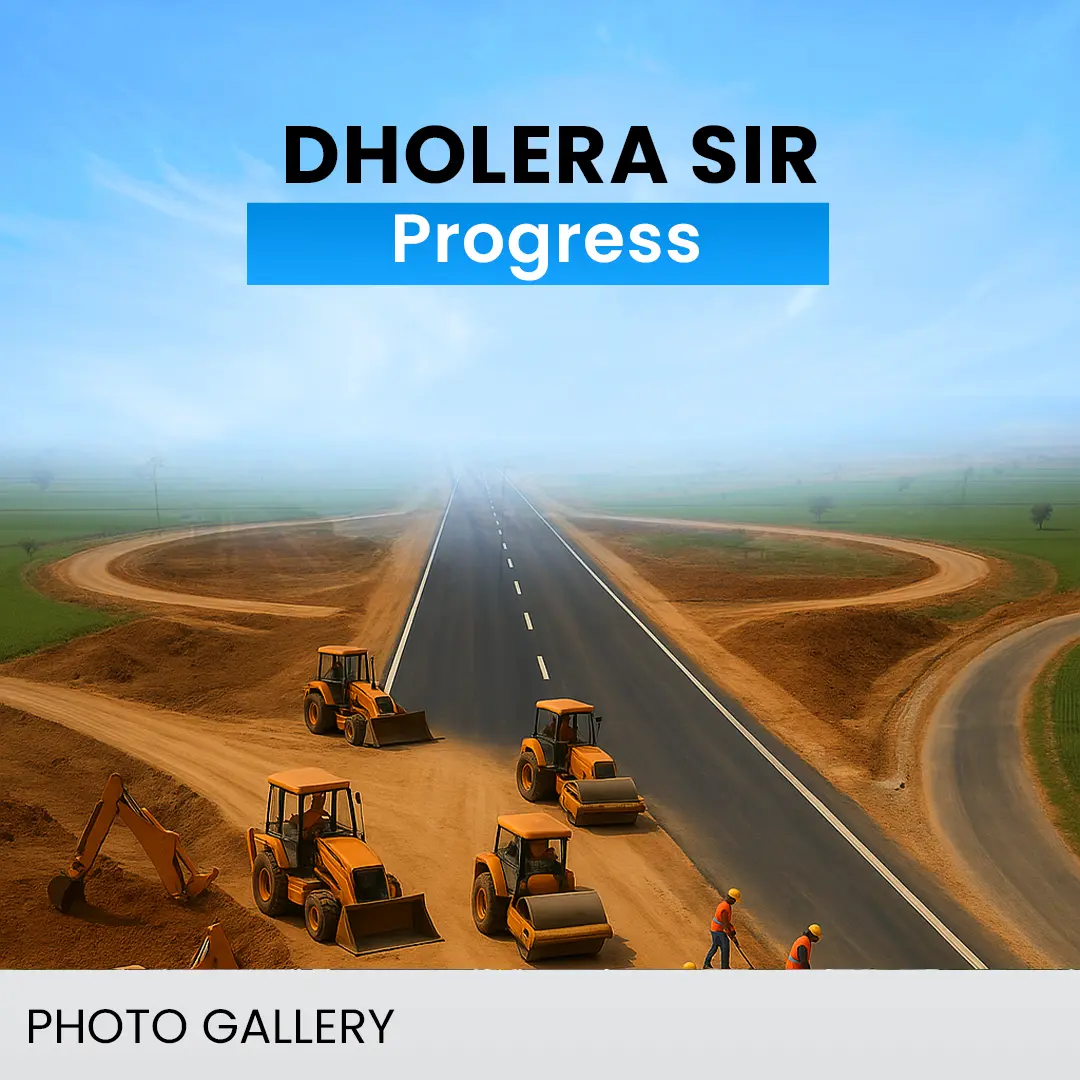
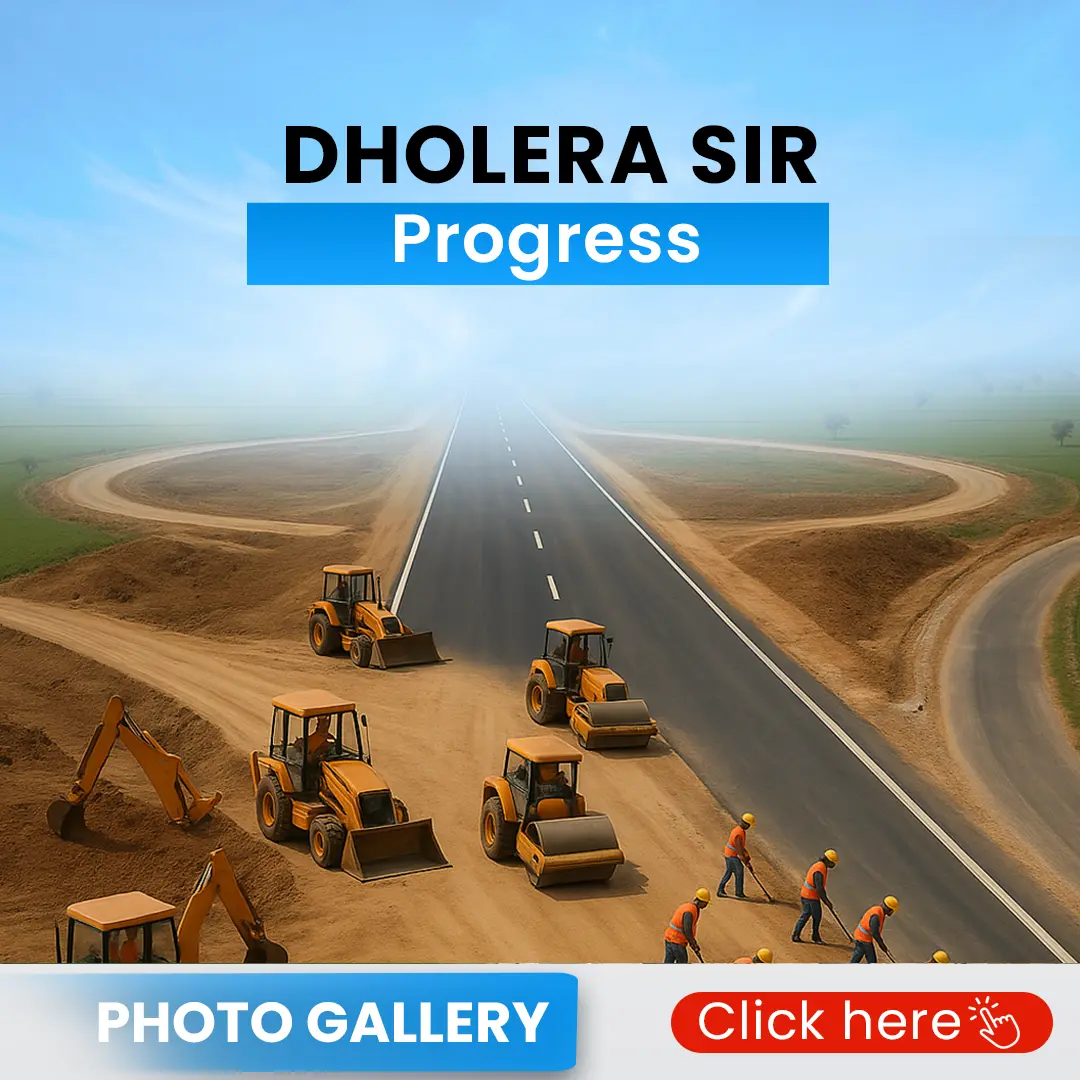
infopack

diff --git a/src/app/(main)/infopack/new.jsx b/src/app/(main)/infopack/new.jsx
@@ -1,74 +1,184 @@
 "use client";
 import Image from "next/image";
 import Link from "next/link";
-import React, { useState, useEffect } from "react";
+import React from "react";
+import { FaDownload } from "react-icons/fa";
+import LatestUpdates from "../components/Latest-updates";
+
+// Import images
 import maps from "@/assets/locations.webp";
 import videos from "@/assets/videos.webp";
 import inventory from "@/assets/plot.webp";
 import bg from "@/assets/bg-image.webp";
-import { FaDownload } from "react-icons/fa";
+import dholeraSIRprogress from "@/assets/dholeraSIRprogress.webp";
+import dholeraSite from "@/assets/dholeraSite.webp";
+
+// Feature card component for better reusability
+const FeatureCard = ({ href, image, alt, title }) => (
+  <Link
+    href={href}
+    className="space-y-4 block group"
+    aria-label={`View ${title}`}
+  >
+    <div className="overflow-hidden rounded-lg shadow-2xl">
+      <Image
+        src={image}
+        alt={alt}
+        className="h-40 md:h-60 w-full object-cover transition-transform duration-300 group-hover:scale-105"
+        width={400}
+        height={300}
+      />
+    </div>
+    <p className="font-semibold text-center md:text-2xl">{title}</p>
+  </Link>
+);
+
+// Gallery link component for reusability
+const GalleryLink = ({ image, alt }) => (
+  <Link
+    href="/gallery/Dholera-SIR-progress"
+    className="block bg-white rounded-lg shadow-2xl overflow-hidden transition-transform duration-300 hover:scale-105"
+    aria-label="View photo gallery"
+  >
+    <div className="relative">
+      <Image
+        src={image}
+        alt={alt}
+        width={1200}
+        height={600}
+        className="w-full object-contain md:h-96"
+        loading="lazy"
+        sizes="(max-width: 640px) 100vw, (max-width: 1024px) 90vw, 1200px"
+      />
+      <div className="flex justify-between items-center w-full px-4 py-3 bg-gray-900 hover:bg-amber-400 text-amber-400 hover:text-gray-900 transition-all">
+        <p className="text-lg md:text-2xl font-light">PHOTO GALLERY</p>
+        <p className="text-lg md:text-2xl font-semibold">SEE MORE</p>
+      </div>
+    </div>
+  </Link>
+);
 
 export default function Info() {
-
   return (
-    <div
+    <main
       className="py-16 px-4 sm:px-6 lg:px-8 min-h-[70vh] overflow-auto relative"
       style={{
-        backgroundImage: `url(${bg.src})`,
+        backgroundImage: `linear-gradient(rgba(255, 255, 255, 0.85), rgba(255, 255, 255, 0.85)), url(${bg.src})`,
         backgroundSize: "cover",
         backgroundPosition: "center",
         backgroundRepeat: "no-repeat",
       }}
     >
-      {/* Semi-transparent overlay for better readability */}
-      <div className="absolute inset-0 bg-white bg-opacity-50 z-0"></div>
-
-      <div className="max-w-7xl mx-auto relative z-10 space-y-8">
-        <div className="text-center space-y-8">
-          <h2 className="font-bold text-2xl md:text-5xl text-gray-800 ">
-            Secure Your Future in Dholera Smart City
-          </h2>
-          <p className="text-black md:font-semibold  md:text-xl">
-            Verified Residential Plots • Immediate Registry • Trusted by 400+
-            Investors{" "}
-          </p>
-        </div>
-        <div className="flex justify-center">
-          <Link
-            href="https://shorturl.at/q7Yh3"
-              className="bg-gray-800 text-[#e6b751] font-semibold flex gap-4 items-center p-4 rounded-md md:text-xl"
+      <div className="max-w-7xl mx-auto relative z-10 space-y-12">
+        {/* Hero Section */}
+        <section
+          aria-labelledby="hero-heading"
+          className="text-center space-y-6"
+        >
+          <h1
+            id="hero-heading"
+            className="font-bold text-2xl md:text-4xl lg:text-5xl text-gray-800"
           >
-            <FaDownload className="text-[#e6b751]" /> Download Dholera Times
-            Brochure
-          </Link>
-        </div>
-       
-        <div>
-          <div className="grid grid-cols-3 font-semibold gap-4 pt-8 text-center md:text-2xl">
-            <Link href="/infopack/locations" className="space-y-4">
-              <Image src={maps} alt="maps" className="shadow-2xl rounded-lg h-40 md:h-60 w-auto mx-auto object-cover" />
-              <p>Locations</p>
+            Secure Your Future in Dholera Smart City
+          </h1>
+          <p className="text-black md:font-semibold text-lg md:text-xl max-w-3xl mx-auto">
+            Verified Residential Plots • Immediate Registry • Trusted by 400+
+            Investors
+          </p>
+
+          <div className="pt-4">
+            <Link
+              href="https://shorturl.at/q7Yh3"
+              className="bg-gray-800 text-amber-400 font-semibold flex gap-4 items-center p-4 rounded-md md:text-xl inline-flex hover:bg-gray-700 transition-colors"
+              aria-label="Download Dholera Times Brochure"
+            >
+              <FaDownload aria-hidden="true" />
+              Download Dholera Times Brochure
             </Link>
-            <Link href="/infopack/videos" className="space-y-4">
-              <Image
-                src={videos}
-                alt="videos"
-                className="shadow-2xl rounded-lg h-40 md:h-60 w-auto mx-auto object-cover"
-              />
-              <p>Videos</p>
-            </Link>
-            <Link href="/infopack/inventory"  className="space-y-4">
-              <Image
-                src={inventory}
-                alt="inventory"
-                className="shadow-2xl rounded-lg h-40 md:h-60 w-auto mx-auto object-cover"
-              />
-              <p>Available Plots</p>
-            </Link>
-            
           </div>
-        </div>
+        </section>
+
+        {/* Features Section */}
+        <section aria-labelledby="features-heading" className="pt-8">
+          <h2 id="features-heading" className="sr-only">
+            Dholera Information Resources
+          </h2>
+          <div className="grid grid-cols-1 sm:grid-cols-3 gap-6 md:gap-8">
+            <FeatureCard
+              href="/infopack/locations"
+              image={maps}
+              alt="Map of Dholera Smart City locations"
+              title="Locations"
+            />
+            <FeatureCard
+              href="/infopack/videos"
+              image={videos}
+              alt="Videos about Dholera Smart City"
+              title="Videos"
+            />
+            <FeatureCard
+              href="/infopack/inventory"
+              image={inventory}
+              alt="Available plots in Dholera Smart City"
+              title="Available Plots"
+            />
+          </div>
+        </section>
+
+        {/* Latest Updates Section */}
+        <section aria-labelledby="updates-heading" className="pt-8">
+          <h2
+            id="updates-heading"
+            className="bg-amber-300 text-gray-900 text-xl md:text-3xl lg:text-4xl text-center p-3 md:p-5 font-semibold mx-auto rounded-md mb-8"
+          >
+            Explore Latest Progress Around Dholera
+          </h2>
+          <LatestUpdates />
+        </section>
+
+        {/* Photo Gallery Section */}
+       
+
+        <section className="grid grid-cols-1 md:grid-cols-2 gap-6">
+          <Link
+            href="/gallery/Dholera-SIR-progress"
+            className="block bg-white rounded-lg shadow-2xl overflow-hidden transition-transform duration-300 hover:scale-105"
+            aria-label="View photo gallery"
+          >
+            <div className="relative">
+              <Image
+                src={dholeraSIRprogress}
+                alt="dholera sir progress"
+                width={1200}
+                height={600}
+                className="w-full object-cover md:h-full"
+                loading="lazy"
+                sizes="(max-width: 640px) 100vw, (max-width: 1024px) 90vw, 1200px"
+              />
+              
+            </div>
+          </Link>
+          <Link
+            href="/gallery/siteprogress"
+            className="block bg-white rounded-lg shadow-2xl overflow-hidden transition-transform duration-300 hover:scale-105"
+            aria-label="View photo gallery"
+          >
+            <div className="relative">
+              <Image
+                src={dholeraSite}
+                alt="dholera site progress"
+                width={1200}
+                height={600}
+                className="w-full object-cover md:h-full"
+                loading="lazy"
+                sizes="(max-width: 640px) 100vw, (max-width: 1024px) 90vw, 1200px"
+              />
+              
+            </div>
+          </Link>
+          
+        </section>
       </div>
-    </div>
+    </main>
   );
 }

diff --git a/src/app/(main)/components/Latest-updates.jsx b/src/app/(main)/components/Latest-updates.jsx
@@ -1,0 +1,97 @@
+import { getNews } from "@/sanity/lib/api";
+import Image from "next/image";
+import Link from "next/link";
+import React from "react";
+import { urlFor } from "@/sanity/lib/image";
+
+// Related Blog Card Component
+const RelatedBlogCard = ({ blog }) => {
+  return (
+    <Link href={`/Dholera-Updates/blogs/${blog.slug.current}`}>
+      <div className="bg-white rounded-xl shadow-md overflow-hidden border border-gray-200 hover:shadow-lg transition-all duration-300 h-full">
+        <div className="relative md:h-48 overflow-hidden">
+          {blog.mainImage ? (
+            <Image
+              src={urlFor(blog.mainImage).width(400).height(250).url()}
+              alt={blog.title}
+              width={400}
+              height={250}
+              className="w-full h-full object-cover transition-transform duration-300 hover:scale-105"
+            />
+          ) : (
+            <div className="w-full h-full bg-gradient-to-r from-gray-100 to-gray-200 flex items-center justify-center">
+              <span className="text-gray-400">No image</span>
+            </div>
+          )}
+        </div>
+        <div className="p-5">
+          <div className="text-sm text-gray-500 mb-2">
+            {new Date(blog.publishedAt || blog._createdAt).toLocaleDateString(
+              "en-US",
+              {
+                day: "numeric",
+                month: "short",
+                year: "numeric",
+              }
+            )}
+          </div>
+          <h3 className="md:font-bold text-lg mb-2 text-gray-900 line-clamp-2">
+            {blog.title}
+          </h3>
+          <p className="text-gray-700 mb-4 line-clamp-3">{blog.description}</p>
+          <div className="flex items-center justify-between mt-auto">
+            <span className="hover:text-[#C69C21] text-[#FDB913] p-1 rounded-xl font-semibold bg-gray-800 inline-flex items-center">
+              Read more
+            </span>
+          </div>
+        </div>
+      </div>
+    </Link>
+  );
+};
+
+export default async function LatestUpdates() {
+  const getUpdates = await getNews();
+
+  const safePosts = getUpdates.map((post) => ({
+    ...post,
+    author: post.author || "Dholera Times",
+    mainImage: post.mainImage || null,
+    slug: post.slug || { current: "#" },
+  }));
+
+  const trendingBlogs = safePosts
+    .sort(
+      (a, b) =>
+        new Date(b.publishedAt || b._createdAt) -
+        new Date(a.publishedAt || a._createdAt)
+    )
+    .slice(0, 2);
+
+  return (
+    <div>
+      <div className="grid grid-cols-2 gap-6">
+        {trendingBlogs.length > 0
+          ? trendingBlogs.map((blog) => (
+              <RelatedBlogCard key={blog._id} blog={blog} />
+            ))
+          : Array(3)
+              .fill(0)
+              .map((_, i) => (
+                <div
+                  key={i}
+                  className="bg-white rounded-xl shadow-md overflow-hidden border border-gray-200"
+                >
+                  <div className="h-48 bg-gradient-to-r from-gray-100 to-gray-200"></div>
+                  <div className="p-6">
+                    <div className="h-4 bg-gray-200 rounded w-1/4 mb-3"></div>
+                    <div className="h-6 bg-gray-200 rounded w-3/4 mb-3"></div>
+                    <div className="h-4 bg-gray-200 rounded w-full mb-2"></div>
+                    <div className="h-4 bg-gray-200 rounded w-2/3"></div>
+                  </div>
+                </div>
+              ))}
+      </div>
+    </div>
+  );
+}
